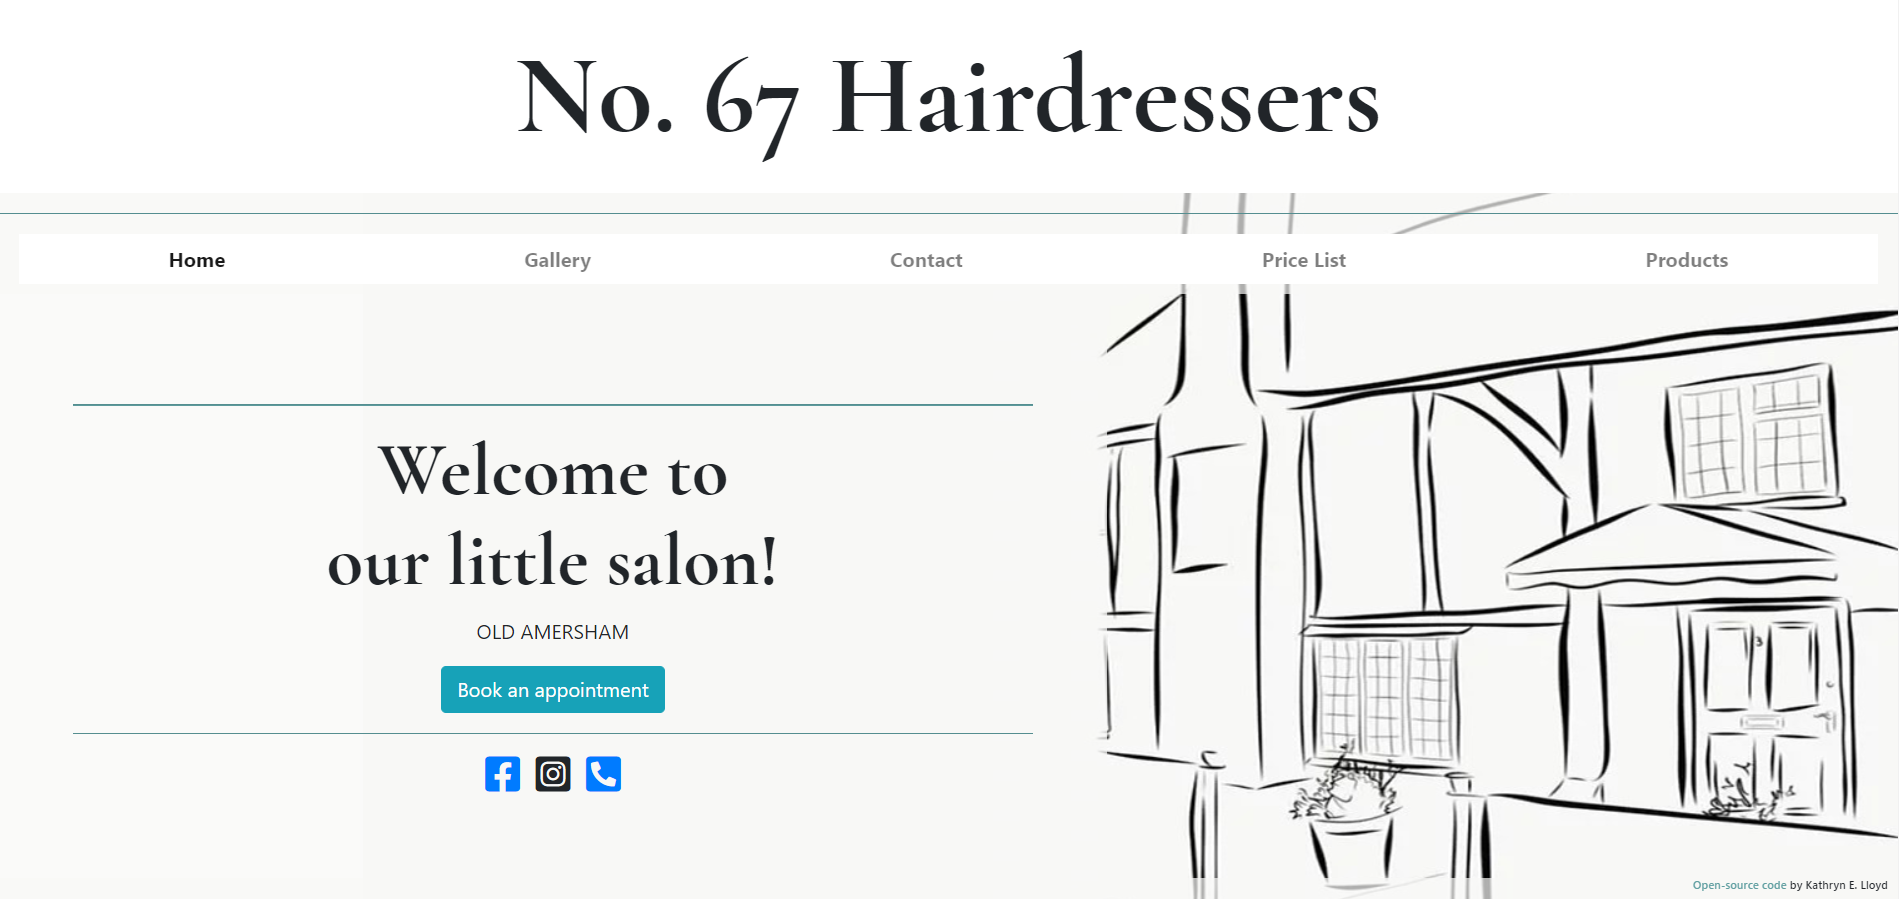
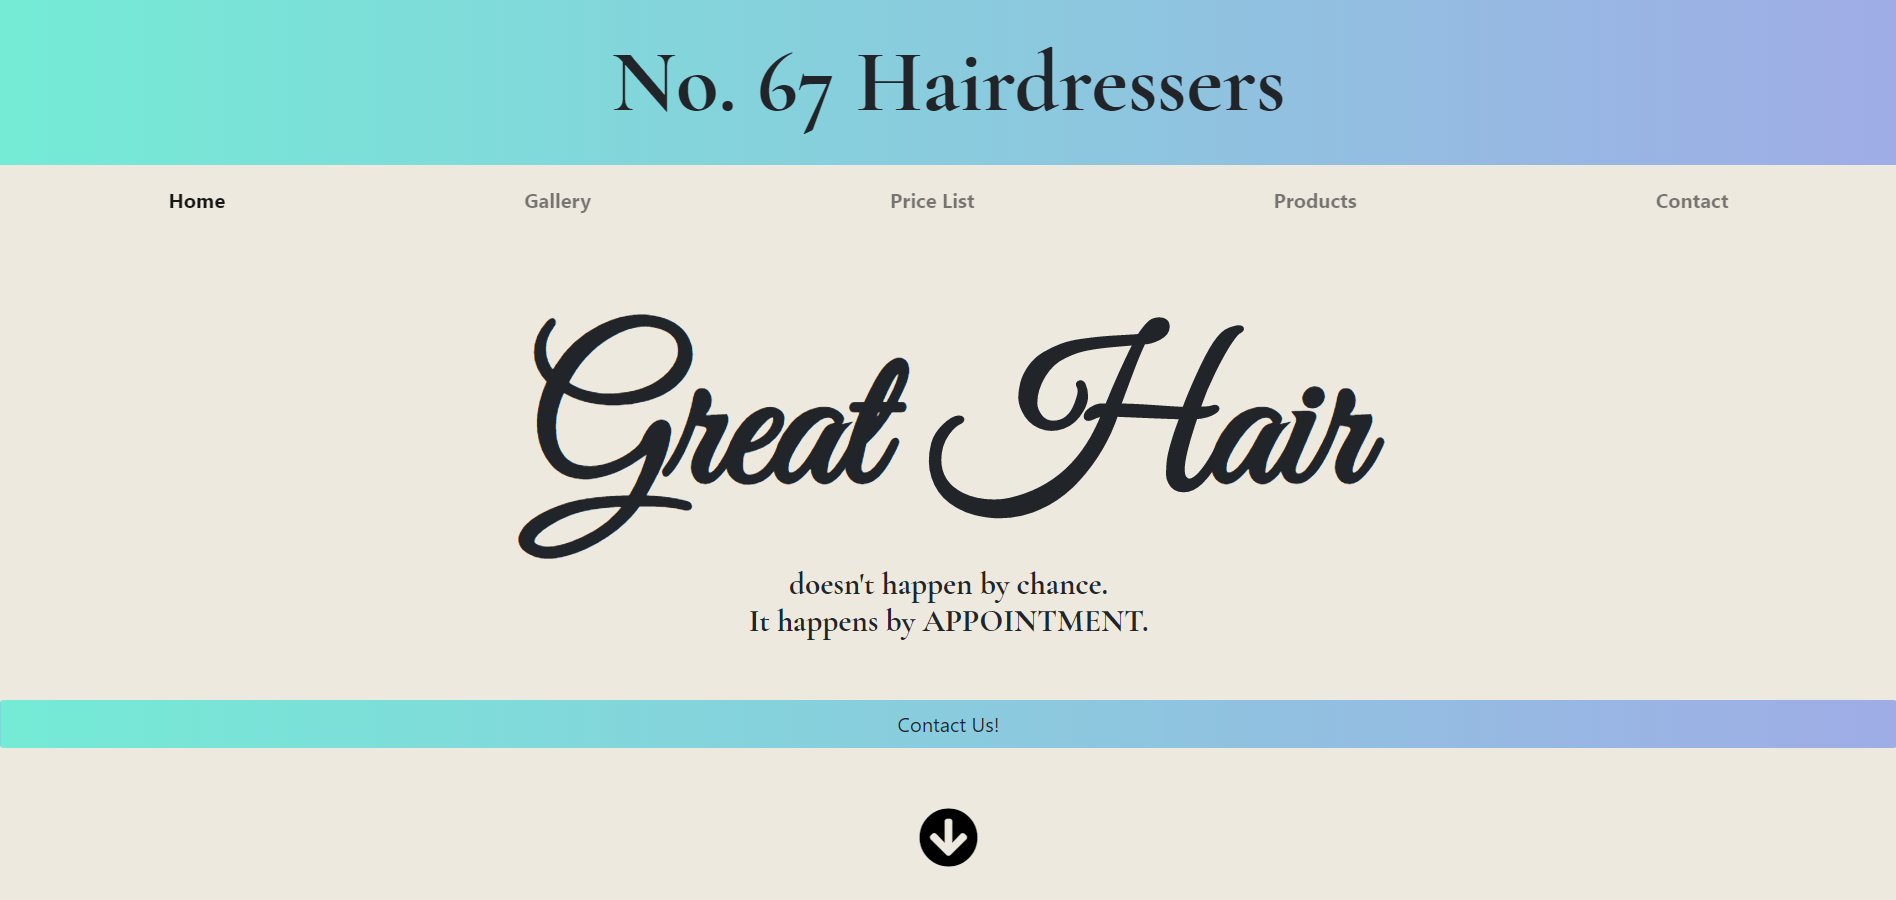
Updated No. 67's project images and descriptions

diff --git a/index.html b/index.html
@@ -239,10 +239,9 @@
               <p>
                 Whilst working on Colombo 7 Cinnamon Gardens (see above), I was
                 approached by another small and local business looking for their
-                own website. Although there are many elements that are still
-                'under construction' such as colour, background image, and
-                additional page content, the basic format and responsivity of
-                this website is functional.
+                own website. Based upon the salon's beige and black interior
+                decoration, this website uses elaborate font and spacious
+                designs to mimic that beautiful simplicity.
               </p>
               <div>
                 <div class="fa-3x d-flex justify-content-around">
@@ -409,10 +408,9 @@
                   <p class="card-text">
                     Whilst working on Colombo 7 Cinnamon Gardens (see above), I
                     was approached by another small and local business looking
-                    for their own website. Although there are many elements that
-                    are still 'under construction' such as colour, background
-                    image, and additional page content, the basic format and
-                    responsivity of this website is functional.
+                    for their own website. Based upon the salon's beige and
+                    black interior decoration, this website uses elaborate font
+                    and spacious designs to mimic that beautiful simplicity.
                   </p>
                   <br />
                   <div class="fa-3x d-flex justify-content-around">
